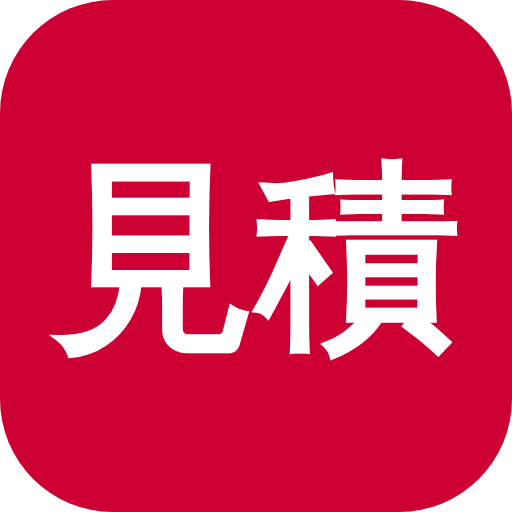
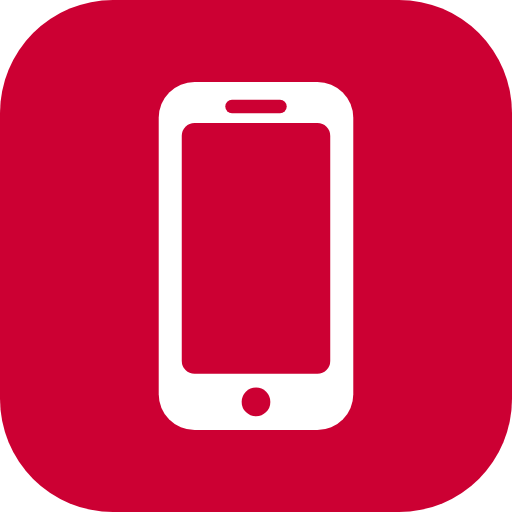
ホーム画面・ブックマークのアイコンをスマートフォンの絵に変更（1.122.0）
赤地に白抜きの「見積」の文字から、赤地に白抜きのスマートフォンへ。
文字を使わないので、ブラウザのタブ（16px）のような小さい表示でも
見分けやすい。

- keitai-app/icon.svg・ルートの icon.svg（阪南の社内版）を差し替え
- img/ の4つのPNG（192・512・maskable 512・apple-touch 180）を
  同じ絵柄で作り直し。maskable は丸切り抜きに備えて絵を内側に寄せる
- img/README.md の意匠の説明を更新
- 事前キャッシュはCACHE名の更新（kq-v232）で入れ替わる
- 16・32・64・192px で表示を確認

あわせて 1.121.1（smartあんしんパックの初期額）を本リリースに
まとめ、版数を 1.122.0 にした。

Changed region(s): [[0.0938, 0.1562, 0.9062, 0.8438]]

diff --git a/keitai-app/changelog.js b/keitai-app/changelog.js
@@ -5,9 +5,10 @@
  * 「何ができるようになったか」「何が直ったか」を書いてください。 */
 var KEITAI_CHANGELOG = [
   {
-    v: "1.121.1", d: "2026-08-23",
+    v: "1.122.0", d: "2026-08-23",
     items: [
-      "<b>smartあんしんパックの初期の金額を1,452円にしました。</b>いちばん多いご案内額に合わせています。機種により金額は違うので、プルダウンで今までどおり選べます"
+      "<b>smartあんしんパックの初期の金額を1,452円にしました。</b>いちばん多いご案内額に合わせています。機種により金額は違うので、プルダウンで今までどおり選べます",
+      "<b>ホーム画面・ブックマークのアイコンを、スマートフォンの絵に変えました。</b>これまでの「見積」の文字より、小さく表示されたときも見分けやすくなります"
     ]
   },
   {

diff --git a/sw.js b/sw.js
@@ -1,6 +1,6 @@
 /* このファイルは tools/build-internal.js が keitai-app/sw.js から生成します。直接編集しないでください。 */
 /* シンプルなオフラインキャッシュ（ネット優先・失敗時キャッシュ） */
-var CACHE = "dq-v231";
+var CACHE = "dq-v232";
 var ASSETS = ["./", "index.html", "keitai-app/style.css", "keitai-app/app.js", "keitai-app/changelog.js", "keitai-app/data.js", "keitai-app/qr.js", "keitai-app/ienaka.js", "firebase-config.js", "manifest.webmanifest", "icon.svg", "keitai-app/img/icon-192.png", "keitai-app/img/icon-512.png", "keitai-app/img/icon-maskable-512.png", "keitai-app/img/apple-touch-icon.png", "keitai-app/TERMS.md", "keitai-app/LICENSE.md", "keitai-app/PRIVACY.md", "keitai-app/SUPPORT.md", "keitai-app/STATS_GUIDE.md"];
 
 self.addEventListener("install", function (e) {

diff --git a/keitai-app/sw.js b/keitai-app/sw.js
@@ -1,5 +1,5 @@
 /* シンプルなオフラインキャッシュ（ネット優先・失敗時キャッシュ） */
-var CACHE = "kq-v231";
+var CACHE = "kq-v232";
 var ASSETS = ["./", "index.html", "style.css", "app.js", "changelog.js",
   "data.js", "qr.js", "ienaka.js", "firebase-config.js",
   "manifest.webmanifest", "icon.svg",

diff --git a/keitai-app/app.js b/keitai-app/app.js
@@ -5,7 +5,7 @@
 (function () {
   "use strict";
 
-  var APP_VERSION = "1.121.1";
+  var APP_VERSION = "1.122.0";
 
   /* ---------- カメラ読み取り（アプリ内OCR）の入・切 ----------
    * 「現在のお支払い」カードの「カメラで読み取る」を出すかどうか。

diff --git a/keitai-app/img/README.md b/keitai-app/img/README.md
@@ -6,8 +6,8 @@
 | `icon-maskable-512.png` | Androidの丸/角丸切り抜き用 |
 | `apple-touch-icon.png` | iPad・iPhone のホーム画面用 |
 
-アイコンは**赤地に白抜きの「見積」**です。`../icon.svg` と同じ考え方で、
-`tools/` の外から作り直す場合も同じ意匠にそろえてください。
+アイコンは**赤地に白抜きのスマートフォン**です（2026-08-23 に「見積」の文字から変更）。
+`../icon.svg` と同じ絵柄なので、作り直す場合も同じ意匠にそろえてください。
 
 ## マスコットについて（2026-08-18 に外しました）
 
